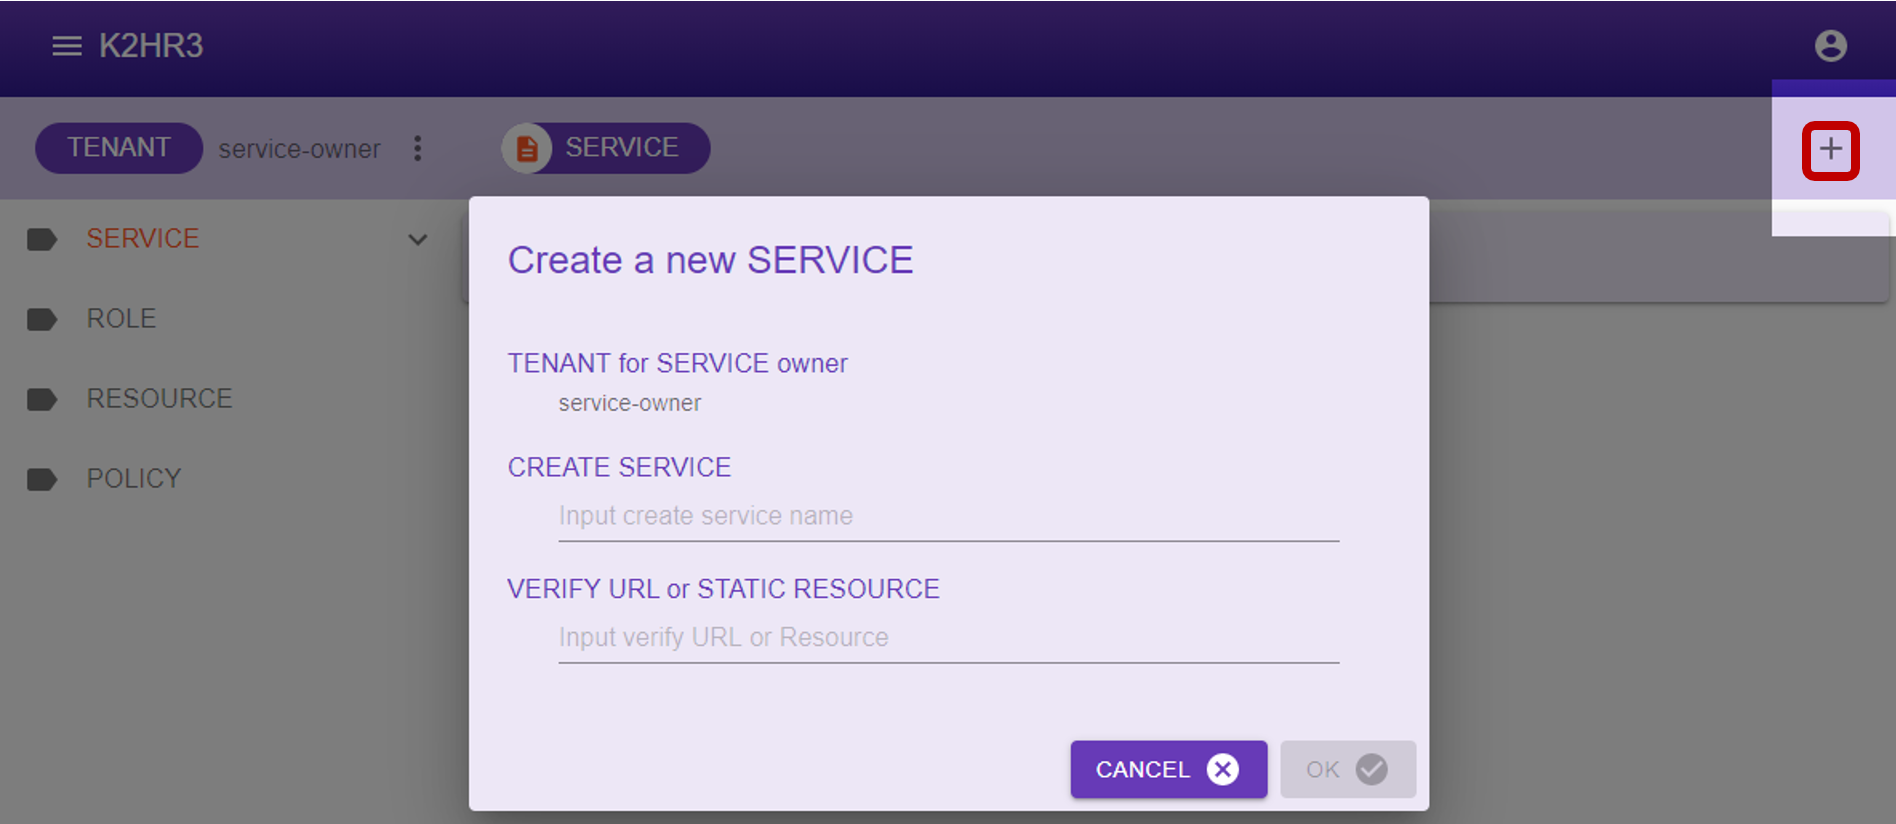
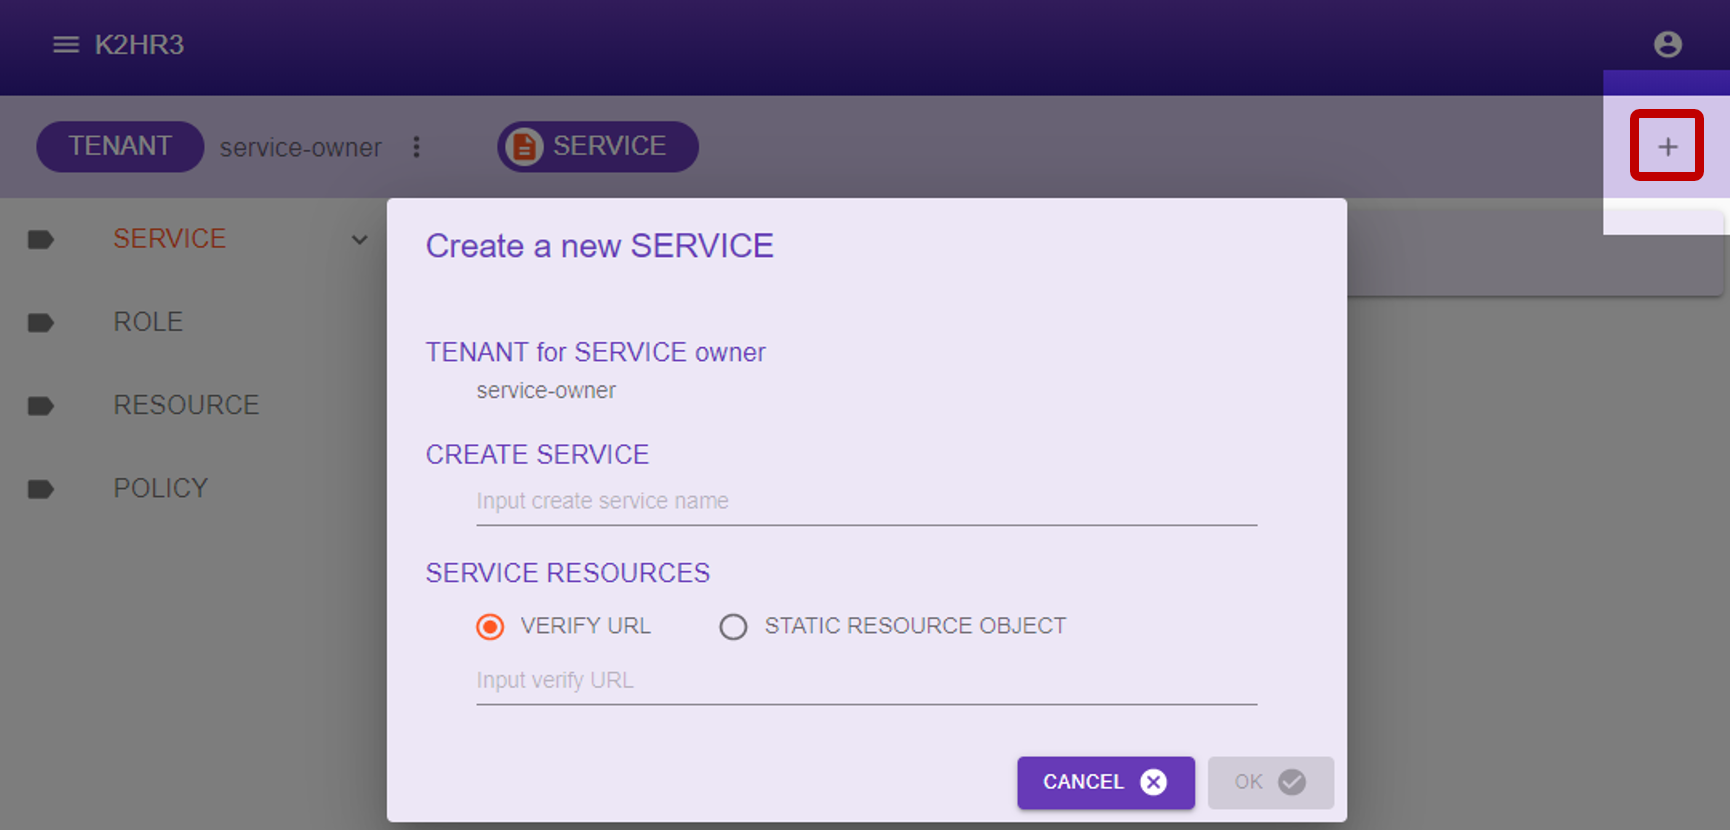
Updated gh-pages for k2hr3_app 0.9.4

diff --git a/usage_app_service.md b/usage_app_service.md
@@ -35,23 +35,64 @@ After clicking the button, a dialog for registering SERVICE is displayed.
 ![K2HR3 Usage Application - Service Owner Create Dialog](images/usage_app_service_owner_add.png)
 
 Enter the **SERVICE name** and the **RESOURCE** provided by **SERVICE** in the displayed dialog and click the ![K2HR3 OK Button](images/button_ok.png) button to register **SERVICE**.  
-You can register **static RESOURCE** or **dynamic RESOURCE** to SERVICE's **RESOURCE**.  
+You can register **static RESOURCE** or **dynamic RESOURCE** (VERIFY URL) to SERVICE's **RESOURCE**.  
 
 After clicking the button, a dialog for registering SERVICE is displayed.  
-- TENANT for SERVICE owner  
+
+### TENANT for SERVICE owner  
 The **TENANT name** for registering SERVICE **OWNER** is displayed.
-- CREATE SERVICE  
+
+### CREATE SERVICE
 Enter the name of the SERVICE to be registered.
-- VERIFY URL or STATIC RESOURCE  
-Enter **RESOURCE** of SERVICE.  
-When you register **static RESOURCE**, specify RESOURCE in the **JSON string(JavaScript Object)**.  
-Alternatively you register **dynamic RESOURCE**, specify **VERIFY URL**.  
+![K2HR3 Usage Application - Input Service Name](images/usage_app_service_owner_add2.png)
+
+### SERVICE RESOURCES  
+Enter the RESOURCE data of the SERVICE.  
+When registering a **static RESOURCE**, select **STATIC RESOURCE OBJECT**.  
+When registering a **dynamic RESOURCE**, specify the **VERIFY URL**.  
+Depending on the selection of SERVICE RESOURCES, the input operation will differ as described below.
+
+#### dynamic RESOURCE(VERIFY URL)
+When **VERIFY URL** is selected, the following parts are displayed in the dialog.  
+![K2HR3 Usage Application - Input Verify Url](images/usage_app_service_owner_add_verify.png)  
+Enter **URL** in the text input area.  
+This **VERIFY URL** is the URL to the REST API prepared by the SERVICE OWNER.
+
+#### static RESOURCE
+When **STATIC RESOURCE OBJECT** is selected, the following parts are displayed in the dialog.  
+![K2HR3 Usage Application - Service Owner Create Dialog](images/usage_app_service_owner_add_res.png)  
+
+A **static RESOURCE** can describe multiple normal RESOURCE.  
+In the above dialog, the resources to be registered RESOURCE are listed and displayed.  
+
+To add a new RESOURCE, click Add new RESOURCE button ![K2HR3 Create new static service resource](images/button_token_new.png).  
+Click RESOUCE edit button ![K2HR3 Edit static service resource](images/button_edit.png) to edit the registered RESOURCE.  
+When registering and editing a new RESOURCE, move to the screen(dialog) described later and edit it individually.  
+To delete the registered RESOURCE, click the RESOUCE edit button ![K2HR3 Delete static service resource](images/button_token_del.png).  
+
 How to register the contents of JSON string for RESOURCE, please refer to [**+SERVICE Usage**](usage_service.html).  
 
+### dialog for RESOURCE new creation and edit
+After selecting a **static RESOURCE**, when editing each RESOURCE or creating a new RESOURCE, the following screen will appear.  
+![K2HR3 Usage Application - Input one service static resource](images/usage_app_service_owner_edit_res.png)  
+
+On this screen, enter individual RESOURCE elements.  
+Input items are the same as normal RESOURCE, and the following items can be input.
+- STATIC RESOURCE NAME  
+Please enter a name for this RESOURCE.  
+A static RESOURCE can have multiple RESOURCEs, so specify a unique name.  
+When cooperating with SERVICE MEMBER, these RESOURCEs are deployed to SERVICE MEMBER.
+- Valid period(Second: Unset is allowed)  
+When cooperating with SERVICE MEMBER, you can specify the expiration date of this RESOURCE.  
+Specify the expiration date after cooperating in seconds.  
+If not specified, it will never expire(default).
+- KEYS(Key Value)  
+You can specify multiple combinations of KEY and VALUE for this RESOURCE.
+
+## Editing of SERVICE by OWNER
 SERVICE registered as OWNER can be confirmed by expanding **SERVICE** in the **left tree**.  
 OWNER's SERVICE item in left tree has the ![K2HR3 SERVICE OWNER](images/button_service_owner.png) **icon** is displayed next to its  name.  
 
-## Editing of SERVICE by OWNER
 OWNER can edit the contents of registered SERVICE.  
 First, you need to select SERVICE name under [SERVICE] item in left tree for editing the contents of already registered **SERVICE**.  
 After selection, the data of the **SERVICE** is displayed in the main area of **K2HR3 Web Application**.  
@@ -63,12 +104,18 @@ You click the ![K2HR3 CANCEL Button](images/button_cancel.png) button for discar
 ![K2HR3 Usage Application - Service Owner Page](images/usage_app_service_owner_all.png)
 
 After selecting SERVICE name, the following items displayed in the main area.  
-- VERIFY URL or STATIC JSON OBJECT STRING  
-The RESOURCE data of SERVICE is displayed.  
-If you  edit **static RESOURCE**, specify RESOURCE in the **JSON string(JavaScript Object)**.  
-Alternatively you edit **dynamic RESOURCE**, specify **VERIFY URL**.  
-How to register the contents of JSON string for RESOURCE, please refer to [**+SERVICE Usage**](usage_service.html).  
-- TENANTS  
+
+### SERVICE RESOURCES  
+SERVICE RESOURCE is displayed.  
+**Static RESOURCE** and **dynamic RESOURCE** (VERIFY URL) are selected.  
+The above image is a case of SERVICE RESOURCE with VERIFY URL selected as dynamic RESOURCE.  
+When static RESOURCE is selected, the following screen is displayed.  
+
+![K2HR3 Usage Application - Service Owner Page 2](images/usage_app_service_owner_all2.png)
+
+The operations on these screens are the same as the SERVICE registration dialog described above.
+
+### TENANTS  
 TENANT registered as MEMBER of SERVICE is enumerated in this item.  
 You can add and delete MEMBER's TENANT.  
 You need to specify MEMBER's TENANT with **[YRN](detail_various.html) full path**.  

diff --git a/whatnewja.md b/whatnewja.md
@@ -14,6 +14,12 @@ next_string: Detail
 ---
 
 # What's new
+## 2019年10月11日 バージョンアップ（Nodejs 12対応）
+K2HR3 ベータ版（k2hr3_app Version 0.9.4 / k2hr3_api Version 0.9.3）のソースコードをGithub.comで公開しました。  
+npmパッケージを[こちら](https://www.npmjs.com/org/antpickax)で公開しました。
+このバージョンは、Nodejs 12に対応し、Nodejs 6はサポートから除外しました。  
+また、不具合の修正と、@material-ui 4.x.xに対応しました。
+
 ## 2019年9月26日 K2HR3 kubernetes対応版公開
 kubernetesに対応したK2HR3 ベータ版（k2hr3_app Version 0.9.3 / k2hr3_api Version 0.9.2）のソースコードをGithub.comで公開しました。  
 また、npmパッケージを[こちら](https://www.npmjs.com/org/antpickax)で公開しました。

diff --git a/whatnew.md b/whatnew.md
@@ -14,6 +14,11 @@ next_string: Detail
 ---
 
 # What's new
+## [11 Oct 2019] K2HR3 new beta release (Compatible with Nodejs 12)
+K2HR3 new beta release(k2hr3_app Version 0.9.4 / k2hr3_api Version 0.9.3) is cooperating with kubernetes, all source code released on Github.com and released the npm package [here](https://www.npmjs.com/org/antpickax).  
+This version corresponds to Nodejs 12, and Nodejs 6 has been excluded from support.  
+Also, bug fixes and support for @material-ui 4.x.x.
+
 ## [26 Sep 2019] K2HR3 new beta release for kubernetes
 K2HR3 new beta release(k2hr3_app Version 0.9.3 / k2hr3_api Version 0.9.2) is cooperating with kubernetes, all source code released on Github.com and released the npm package [here](https://www.npmjs.com/org/antpickax).  
 We will continue to support IaaS other than OpenStack and update related packages.
